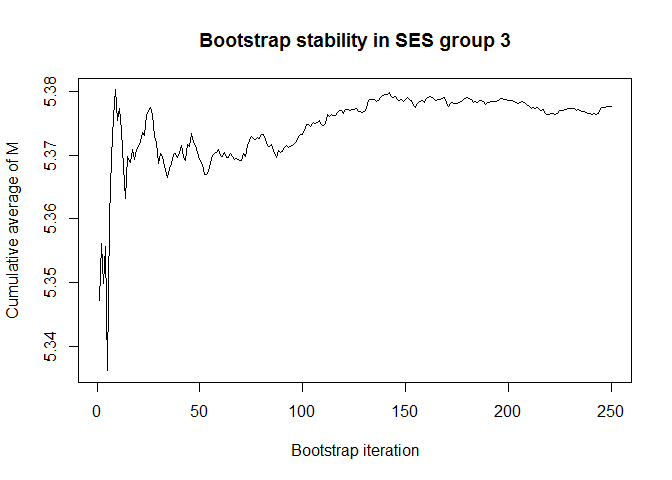
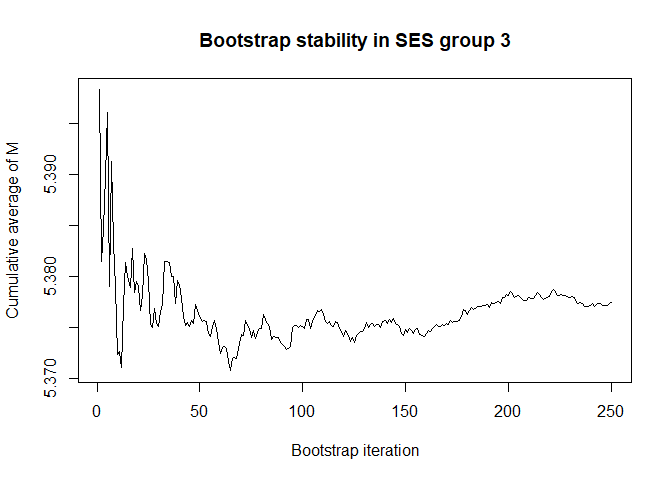
Updating to v0.3.0

diff --git a/README.md b/README.md
@@ -1,7 +1,7 @@
 
 <!-- README.md is generated from README.Rmd. Please edit that file -->
 
-# cfdecomp v0.2.0
+# cfdecomp v0.3.0
 
 <!-- badges: start -->
 
@@ -35,6 +35,7 @@ install.packages("cfdecomp")
 
 ``` r
 library(cfdecomp)
+#> Warning: package 'cfdecomp' was built under R version 4.0.3
 
 formula.y.example <- 'out.gauss ~ med.gauss + age + med.binom'
 formula.m.example <- 'med.gauss ~ age'
@@ -64,7 +65,7 @@ abline(v=mean(cfd.example.data$med.gauss[cfd.example.data$SES==1]),lwd=4)
 ``` r
 # approximation of the mean of M over the Monte Carlo iterations for SES group 1:
 mean(mean.results.1$out_nc_m[,1])
-#> [1] 8.166413
+#> [1] 8.160594
 # empirical mean of mediator M for SES group 1:
 mean(cfd.example.data$med.gauss[cfd.example.data$SES==1])
 #> [1] 8.163461
@@ -81,7 +82,7 @@ abline(v=mean(cfd.example.data$med.gauss[cfd.example.data$SES==2]),lwd=4)
 
 ``` r
 mean(mean.results.1$out_nc_m[,2]);mean(cfd.example.data$med.gauss[cfd.example.data$SES==2])
-#> [1] 7.181744
+#> [1] 7.179294
 #> [1] 7.186521
 # conclusion: also for group 2, approximation is good
 
@@ -96,7 +97,7 @@ abline(v=mean(cfd.example.data$med.gauss[cfd.example.data$SES==3]),lwd=4)
 
 ``` r
 mean(mean.results.1$out_nc_m[,3]);mean(cfd.example.data$med.gauss[cfd.example.data$SES==3])
-#> [1] 5.377593
+#> [1] 5.377426
 #> [1] 5.376548
 # conclusion: also for group 3, approximation of M is good
 
@@ -112,7 +113,7 @@ abline(v=mean(cfd.example.data$out.gauss[cfd.example.data$SES==1]),lwd=4)
 
 ``` r
 mean(mean.results.1$out_nc_y[,1]);mean(cfd.example.data$out.gauss[cfd.example.data$SES==1])
-#> [1] 4.147698
+#> [1] 4.143651
 #> [1] 4.145881
 # conclusion: on average, our distributions of means of Y centers on the empirical distribution of Y 
 
@@ -127,7 +128,7 @@ abline(v=mean(cfd.example.data$out.gauss[cfd.example.data$SES==2]),lwd=4)
 
 ``` r
 mean(mean.results.1$out_nc_y[,2]);mean(cfd.example.data$out.gauss[cfd.example.data$SES==2])
-#> [1] 3.28048
+#> [1] 3.282936
 #> [1] 3.284409
 # conclusion: also for group 2, approximation of Y is good
 
@@ -142,7 +143,7 @@ abline(v=mean(cfd.example.data$out.gauss[cfd.example.data$SES==3]),lwd=4)
 
 ``` r
 mean(mean.results.1$out_nc_y[,3]);mean(cfd.example.data$out.gauss[cfd.example.data$SES==3])
-#> [1] 2.226078
+#> [1] 2.224944
 #> [1] 2.227222
 # conclusion: also for group 3, approximation of Y is good
 
@@ -151,26 +152,26 @@ mean(mean.results.1$out_nc_y[,3]);mean(cfd.example.data$out.gauss[cfd.example.da
 # estimate the effect of the intervention and proportion mediated (decomposition)
 # the differences between SES groups 1 and 2 were first:
 mean(mean.results.1$out_nc_y[,2] - mean.results.1$out_nc_y[,1])
-#> [1] -0.8672176
+#> [1] -0.8607148
 # and after giving the gaussian mediator of SES group 2 the distribution of the one in group 1
 # the difference becomes:
 mean(mean.results.1$out_cf_y[,2] - mean.results.1$out_nc_y[,1])
-#> [1] -0.6582674
+#> [1] -0.6525706
 # so the proportion of the outcome Y that is due to differences between the two SES groups in the gaussian mediator is
 mean(1-(mean.results.1$out_cf_y[,2] - mean.results.1$out_nc_y[,1]) / (mean.results.1$out_nc_y[,2] - mean.results.1$out_nc_y[,1]))
-#> [1] 0.2412226
+#> [1] 0.2423695
 # we can also get this number, and the one from the comparison of the other SES group with group 1, straight from the object
 mean.results.1$mediation
 #>         2         3 
-#> 0.2412226 0.3067384
+#> 0.2423695 0.3060078
 # you'll notice the first number is the same as the one we calculated ourselves from the output
 # this is the proportion mediated when coming the first and the second SES group
 # the second number is the proportion mediated when comparing the first and the third SES group
 # and we can get the 1-alpha confidence intervals for each:
 mean.results.1$mediation_quantile
 #>               2         3
-#> 2.5%  0.2101112 0.2812851
-#> 97.5% 0.2788443 0.3319271
+#> 2.5%  0.2073320 0.2793016
+#> 97.5% 0.2869604 0.3320278
 
 # if a mediator is binomial distributed
 mean.results.2 <- cfd.mean(formula.y='out.gauss ~ med.pois + age + med.binom',
@@ -362,7 +363,7 @@ quantile.semipar.results.1 <- cfd.semipar.quantile(formula='out.gauss ~ SES + me
                                            mc.size=50,
                                            alpha=0.05,
                                            probs=0.50)
-                                           
+
 # for examples of the functions cluster.resample and cluster.id being used in cfd.mean and cfd.quantile
 # please see the help files of those individual functions
 # for an example of cfd.FUN, please see the help file of that individual function.

diff --git a/NEWS.md b/NEWS.md
@@ -1,4 +1,8 @@
 
+# cfdecomp v0.3.0
+
+This is the third release of the cfdecomp package. Compared to version 2, this new version has a bug fix which only showed up when cluster resampling was used and due to sample size, no cluster was resampled more than once.
+
 # cfdecomp v0.2.0
 
 This is a second release of the cfdecomp package. Compared to version 1, this new version now has three added functions and added functionality to existing functions.

diff --git a/cran-comments.md b/cran-comments.md
@@ -1,4 +1,17 @@
 
+# cfdecomp v0.3.0
+
+This is the third release of the cfdecomp package, which fixes a bug in the cluster.resample function.
+
+## Test environments (re-tested on February 2, 2021)
+
+
+## R CMD check result
+
+
+
+
+
 # cfdecomp v0.2.0
 
 This is the second release of the cfdecomp package, which adds two functions and some functionality to existing functions.
